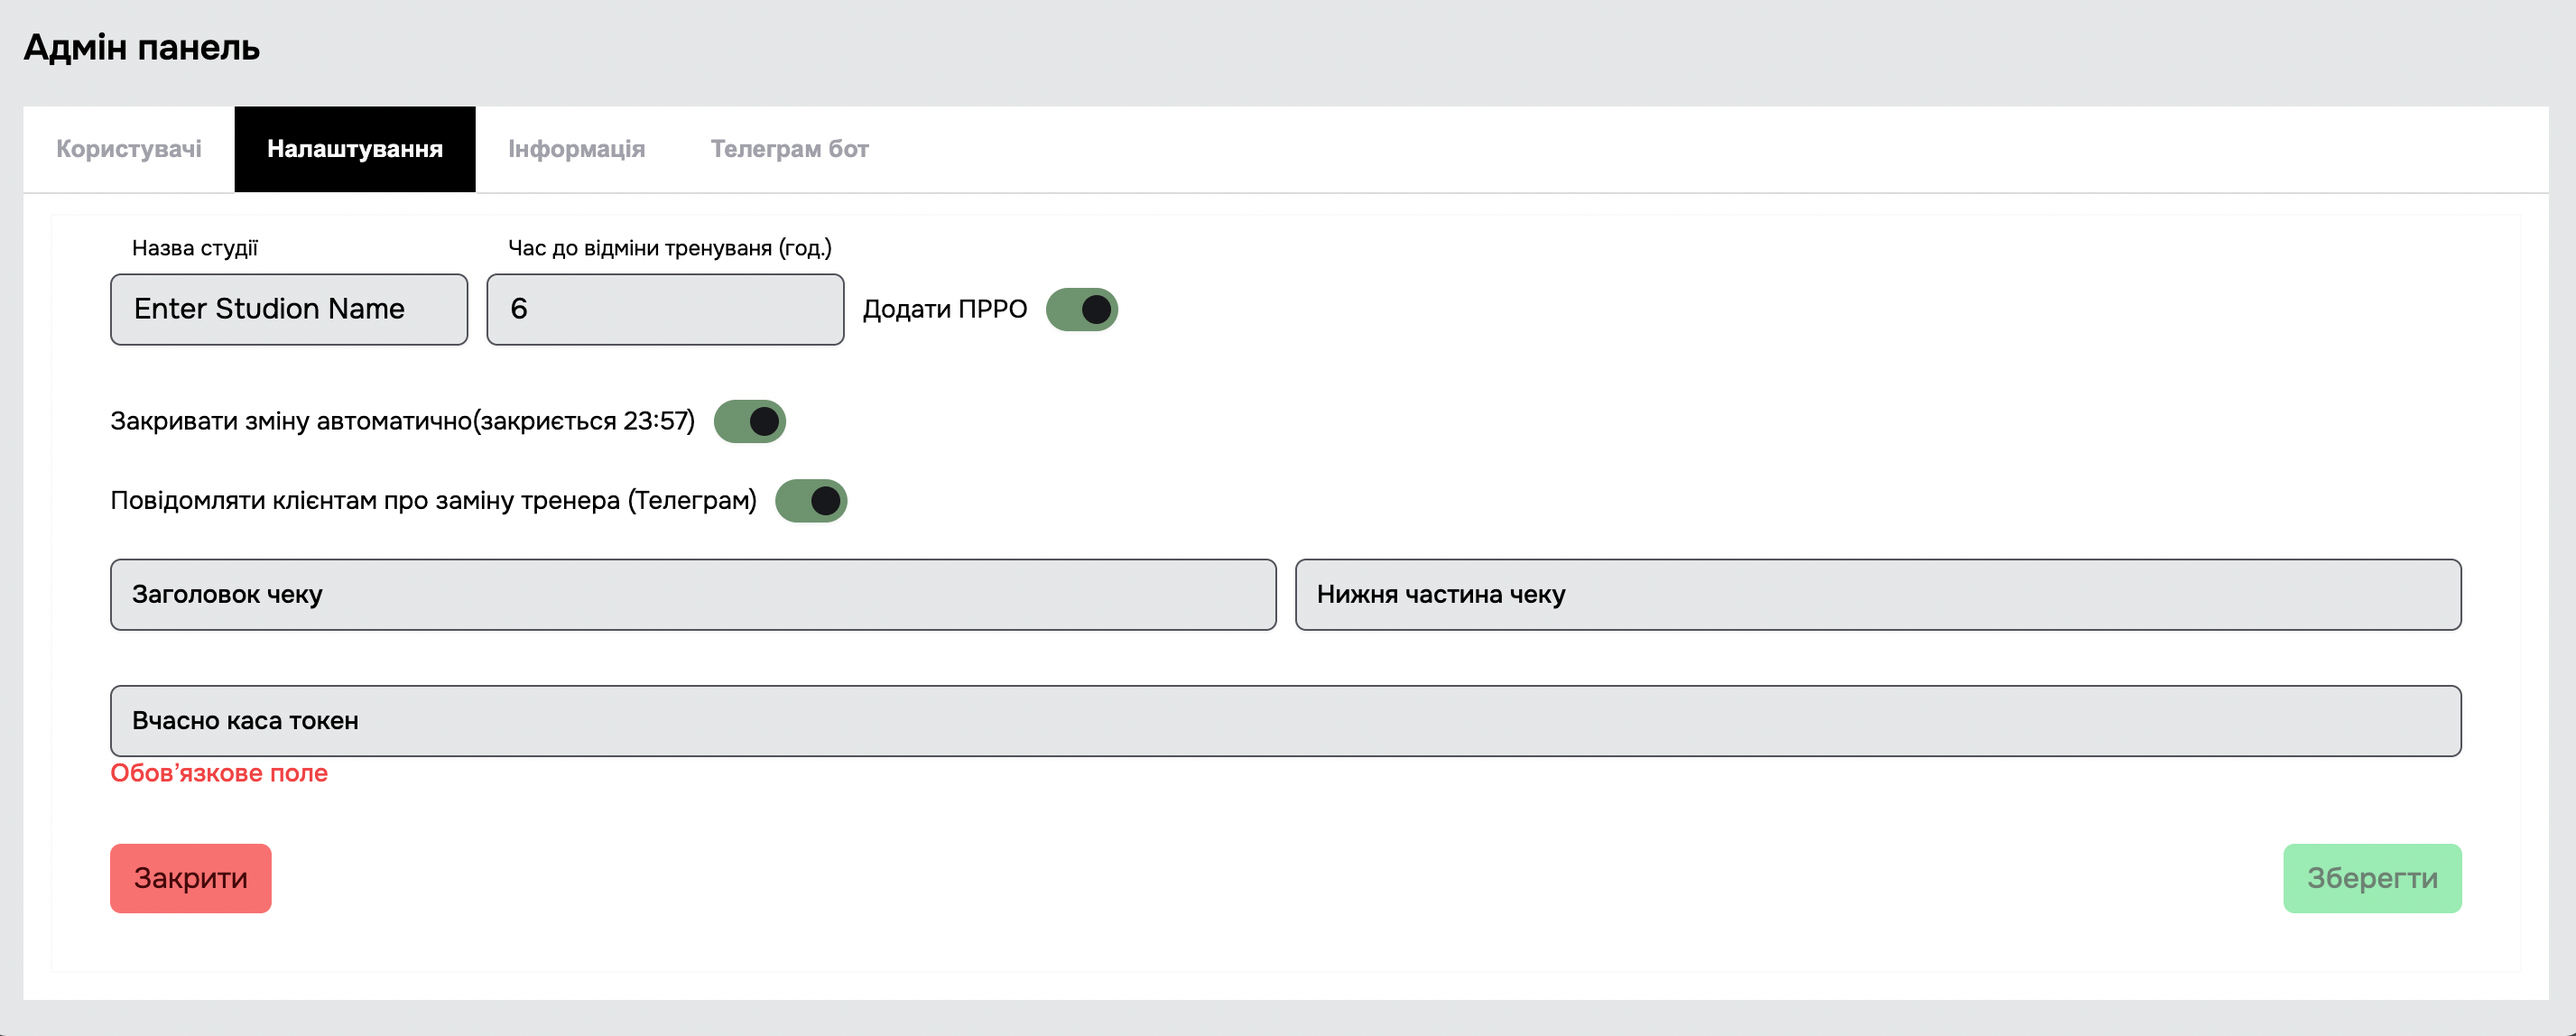
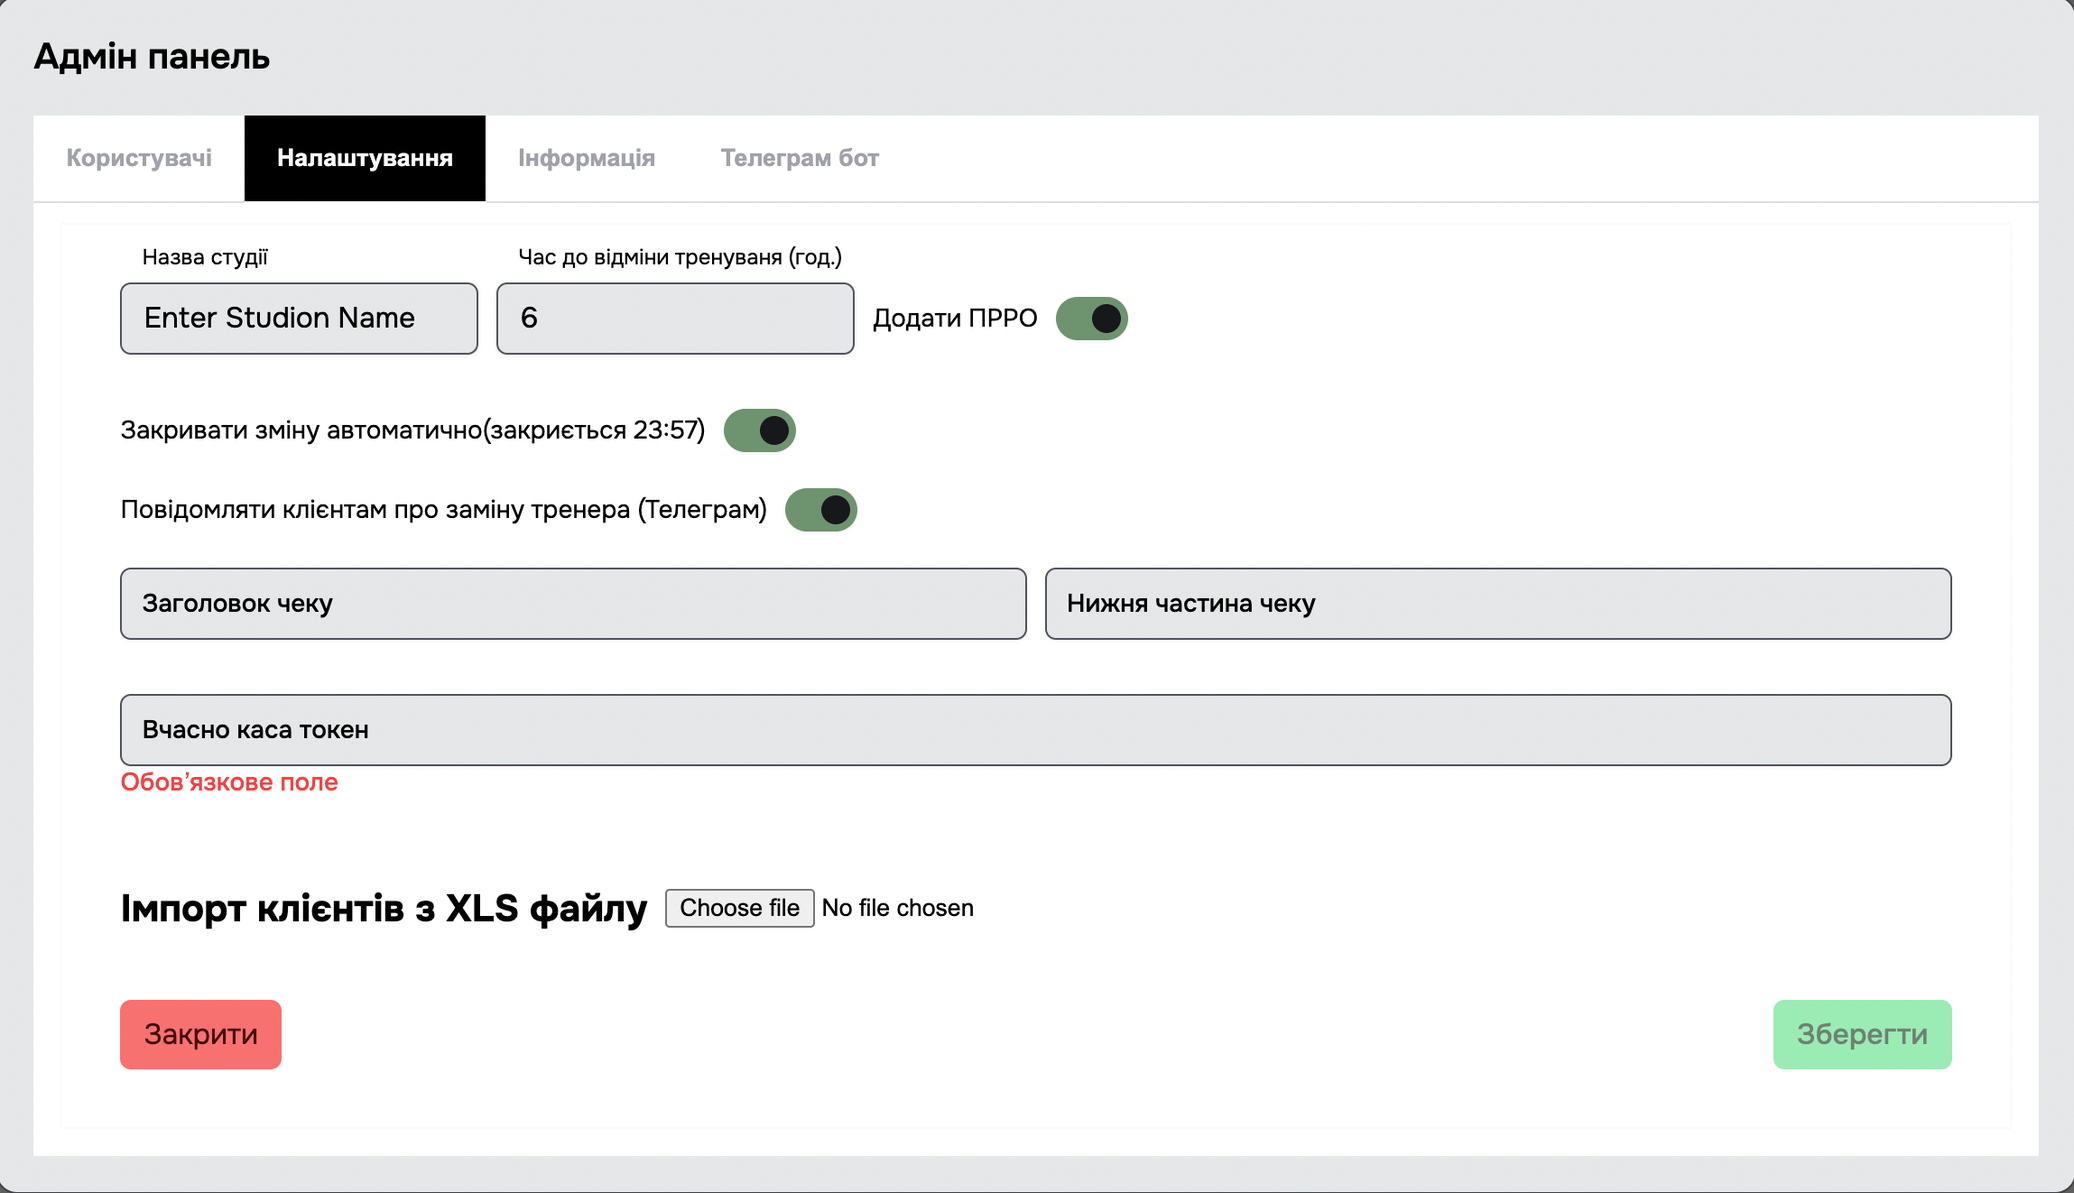
Added docs for import Clients

Changed region(s): [[0.0, 0.0915, 0.9887, 0.9756], [0.0, 0.0305, 0.1236, 0.061], [0.9887, 0.9756, 1.0, 1.0]]

diff --git a/pages/setup.md b/pages/setup.md
@@ -52,9 +52,77 @@
 
 > Проведіть запис клієнтів на тренування, на які вони були записані раніше
 
-### 4.7.2 Імпорт клієнтів з Exel файлу
+### 4.7.2 Імпорт клієнтів з Excel файлу
 
-> Наразі недоступно. Буде додано в наступному релізі
+> Опція імпорту доступна в меню **Адмін панель** на вкладці [Налаштування](/login/settings)
+
+![](../_media/admin-panel-settings-prro.png ':size=150x100')
+
+> Підготуйте Excel файл. Необхідні поля для імпорту клієнтів
+
+- Імʼя
+- Номер телефону
+- Емейл
+- Картка
+- Дата народження
+
+> Excel файл повинен містити хоча б одне з цих полів. В іншому випадку буде показано повідомлення
+
+![](../_media/import-error.png ':size=150x100')
+
+> Інші поля можна буде помапити пізніше
+
+> Для демонстрації був підготований тестовий Excel файл
+
+![](../_media/import-simple-xls.png ':size=200x80')
+
+> Тестовий Excel файл містить
+
+- Імʼя
+- Прізвище
+- Номер телефону
+- Емейл
+- Картка
+- Дата
+
+> Всі поля збігаються з тими які потребує система окрім поля **Дата**, також файл містить одне надлишкове поле **Прізвище**
+
+> Після загрузки цього файлу зʼявиться наступна інформація:
+
+![](../_media/import-mapping-step.png ':size=150x80')
+
+> Оскількі одне поле має іншу назву, а інше надлишкове, система буде ігнорувати ці 2 поля, якщо не зробити маппінг
+
+> Якщо натиснути на кнопку **Додати маппінг поля** зʼявиться додаткова форма:
+
+![](../_media/import-mapping-step-1.png ':size=200x50')
+
+- **Поле** - містить список полів, які не замаплено. Можна вибрати будь-яке одне
+- **Маппінг** - містить список полів, які доступні для створення клієнта
+- **Префікс** - текстове поле вводу, приймає будь-які символи, буде використано при обʼєднанні полів
+
+> Спочатку розглянемо надлишкове поле **Прізвище**. В системі поле **Імʼя** для клієнта містить і імʼя і прізвище. Тому нам потрібно обʼєднати поле **Прізвище** з вже існуючим полем **Імʼя**
+
+![](../_media/import-mapping-step-2.png ':size=200x50')
+
+- В першому селекті вибираємо поле **Прізвище**
+- у другому - поле з яким хочемо обʼєднати: **Імʼя**
+- далі необхідно вказати префікс, в цьому випадку вказано пробіл, щоб розділити імʼя та прізвище
+
+> Далі маємо поле **Дата**, але в системі для дня народження клієнта використовується поле **Дата народженя**. Оскільки файл не містить поля **Дата народженя** в маппінгу ми будемо заміняти поле **Дата** на потрібне. Префікс в цьому випадку заповнювати не потрібно
+
+![](../_media/import-mapping-step-3.png ':size=200x50')
+
+> Якщо натиснути на кнопку **Продовжити** буде показано превью у вигляді таблиці, також буде враховано маппінг
+
+![](../_media/import-preview-step.png ':size=200x50')
+
+> Якщо натиснути кнопку **Продовжити** буде виконано імпорт, після чого буде показано наступне повідомлення:
+
+![](../_media/import-success.png ':size=200x50')
+
+> Тепер якщо перейти на сторінку **Клієнти** всі імпортовані клієнти зʼявляться у таблиці клієнтів
+
 
 ## 4.8 Підготовка до роботи
 
@@ -65,3 +133,5 @@
 > Надалі пропонуйте клієнтам користуватися телеграм ботом
 
 [Повернутися на головну](/)
+
+

diff --git a/login/settings.md b/login/settings.md
@@ -24,6 +24,10 @@
 - Тестове поле **Нижня частина чека** - Коментар, який буде додаватися до нижньої частини чека `(Необовʼязкове поле)`
 - Тестове поле **Вчасно Каса токен** - Токен для роботи з ПРРО **Вчасно Каса**. Генерується у кабінеті Вчасно Каса.
 
+## Імпорт клієнтів з XLS файлу
+
+[Детальніше про імпорт](../pages/setup?id=_472-Імпорт-клієнтів-з-excel-файлу)
+
 <a href="javascript:void(0)" onclick="history.back()">⬅ Назад</a>
 
 [Повернутися на головну](/)
